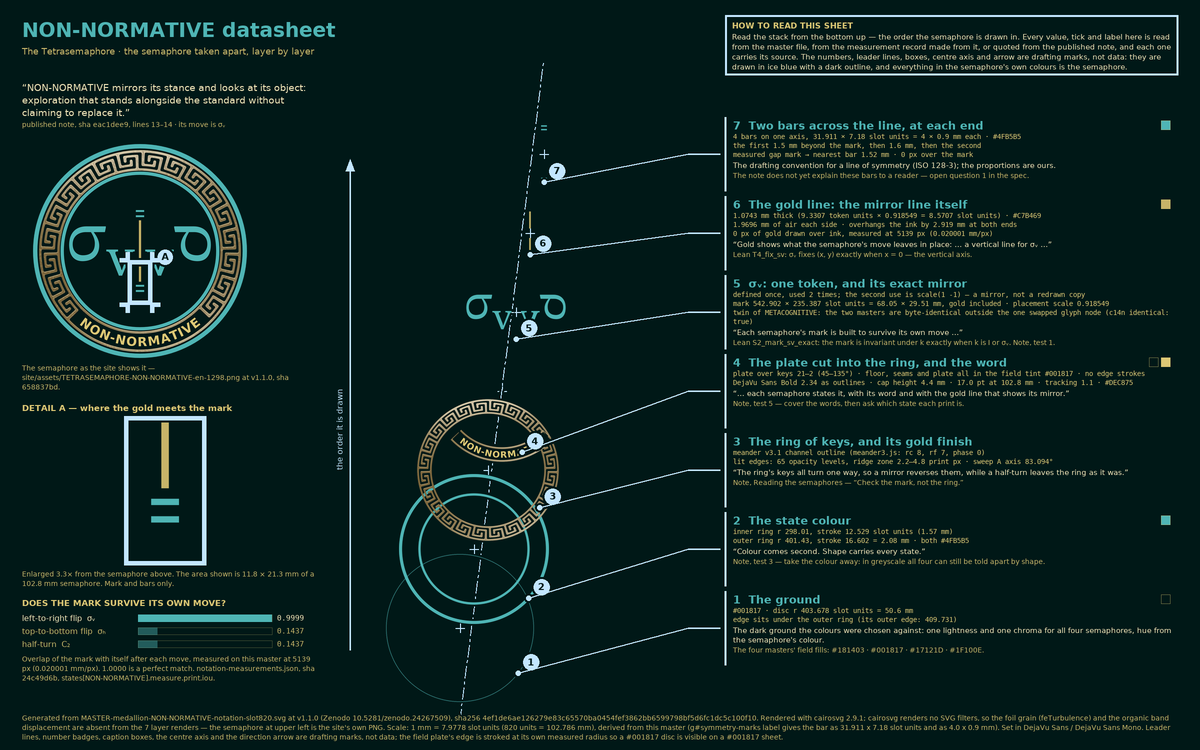
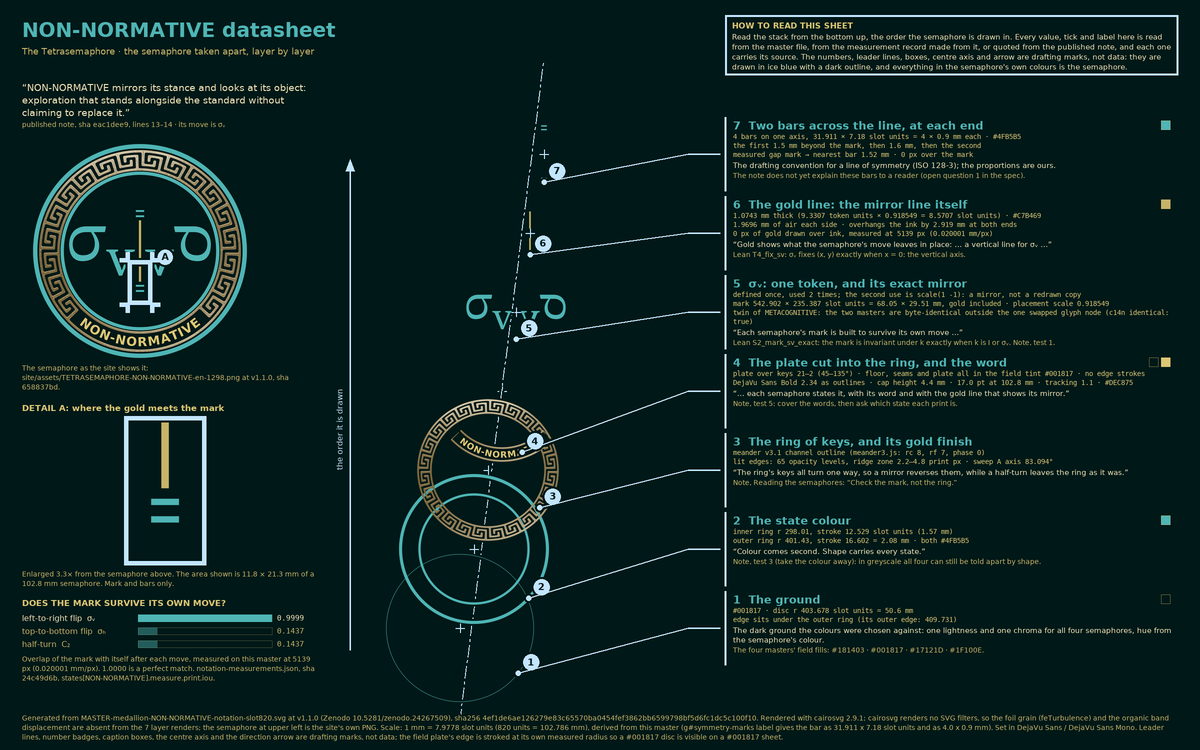
release: no em dash in the datasheets' own words, and a build check that keeps it so
Carey's rule, restated and approved on 17 November 2026: our own reader-facing
words carry no em dash, and a machine check enforces it so that no lane has to
remember. Quotations and titles of other people's work, anything already
published under a DOI, and files a reader never sees are left alone.

The four release sheets carried em dashes in the plate's own wording: four on
NORMATIVE and six on each of the others, from 15 lines of the plate template.
Each is replaced with a colon, comma, semicolon, full stop or parentheses, and
the five in the audit report's own prose likewise. No quotation changed.

The build now stops if any string drawn on a plate, any string in an audit
record, or the audit report contains an em dash. Tested both ways: with one dash
put back the plate build fails naming the string, and the clean template passes.

The four sheets, their previews, the four audit records and the audit report are
rebuilt and installed: 116 strings provenance-checked with no faults, 29
quotation spans with no punctuation faults, no text overlaps, nothing outside
the canvas, no em dash in any record or in the report.

The 1.1.0 change log entry loses the two em dashes in its body. Its heading
keeps the form of the 1.0.0 heading, which is published.

Prepared and committed by the Claude Science lane on Carey James Balboa's
instruction. Unsigned because gpg is unavailable in that lane. Not tagged: Carey
[…]

diff --git a/tools/make_anatomy_plate.py b/tools/make_anatomy_plate.py
@@ -300,6 +300,8 @@ class Text:
     def draw(self, xy, s, path, size, fill, tag='', anchor='la'):
         if not s:
             return 0
+        if '\u2014' in s:      # house rule: no em dash in the sheet's own words
+            raise AssertionError(f"em dash in drawn text: {s[:90]!r}")
         f = self.font(path, size)
         self.d.text(xy, s, font=f, fill=fill, anchor=anchor)
         self.boxes.append((tag, s, self.d.textbbox(xy, s, font=f, anchor=anchor)))
@@ -445,9 +447,9 @@ FIX_THM = {'NORMATIVE': 'T4_fix_I', 'NON-NORMATIVE': 'T4_fix_sv',
 MARK_THM = {'NON-NORMATIVE': 'S2_mark_sv_exact', 'METACOGNITIVE': 'S2_mark_sh_exact',
             'CRITICAL': 'S2_mark_C2_exact', 'NORMATIVE': 'S2_markAll_invariant'}
 FIX_SAYS = {'NORMATIVE': 'I fixes every point of the plane',
-            'NON-NORMATIVE': '\u03c3\u1d65 fixes (x, y) exactly when x = 0 \u2014 the vertical axis',
-            'METACOGNITIVE': '\u03c3\u2095 fixes (x, y) exactly when y = 0 \u2014 the horizontal axis',
-            'CRITICAL': 'C\u2082 fixes (x, y) exactly when x = 0 and y = 0 \u2014 the centre alone'}
+            'NON-NORMATIVE': '\u03c3\u1d65 fixes (x, y) exactly when x = 0: the vertical axis',
+            'METACOGNITIVE': '\u03c3\u2095 fixes (x, y) exactly when y = 0: the horizontal axis',
+            'CRITICAL': 'C\u2082 fixes (x, y) exactly when x = 0 and y = 0: the centre alone'}
 MARK_SAYS = {'NON-NORMATIVE': 'the mark is invariant under k exactly when k is I or \u03c3\u1d65',
              'METACOGNITIVE': 'the mark is invariant under k exactly when k is I or \u03c3\u2095',
              'CRITICAL': 'the mark is invariant under k exactly when k is I or C\u2082',
@@ -497,7 +499,7 @@ def build_stations(m, S):
         ],
         meaning=dict(text="\u201cColour comes second. Shape carries every state.\u201d",
                      src=S.q("Colour comes second. Shape carries every state.", "100")),
-        check=dict(text="Note, test 3 \u2014 take the colour away: in greyscale all four can "
+        check=dict(text="Note, test 3 (take the colour away): in greyscale all four can "
                         "still be told apart by shape.",
                    src=S.q("Take the colour away.", "122", kind='pointer, paraphrased'))))
 
@@ -515,7 +517,7 @@ def build_stations(m, S):
                           "while a half-turn leaves the ring as it was.\u201d",
                      src=S.q("The ring's keys all turn one way, so a mirror reverses them, while "
                              "a half-turn leaves the ring as it was.", "91")),
-        check=dict(text="Note, Reading the semaphores \u2014 \u201cCheck the mark, not the "
+        check=dict(text="Note, Reading the semaphores: \u201cCheck the mark, not the "
                         "ring.\u201d",
                    src=S.q("Check the mark, not the ring.", "91",
                            kind='pointer with verbatim quotation'))))
@@ -535,7 +537,7 @@ def build_stations(m, S):
                           "line that shows its mirror.\u201d",
                      src=S.q("each semaphore states it, with its word and with the gold line that "
                              "shows its mirror.", "188\u2013189")),
-        check=dict(text="Note, test 5 \u2014 cover the words, then ask which state each print is.",
+        check=dict(text="Note, test 5: cover the words, then ask which state each print is.",
                    src=S.q("Cover the words, then show them twenty prints", "129",
                            kind='pointer, paraphrased'))))
 
@@ -549,13 +551,13 @@ def build_stations(m, S):
         anchor5 = (410, 560)
     elif m.state == 'CRITICAL':
         v1 = dict(text=f"defined once, used {eg['uses']} times; {eg['rotate_180']} of them "
-                       f"rotate(180) \u2014 a half-turn, not a redrawn copy",
+                       f"rotate(180): a half-turn, not a redrawn copy",
                   src=S.j(f"states[{m.state}].exactness_grep"))
         title5 = f"{nota}: one token, and its half-turn"
         anchor5 = (300, 480)
     else:
-        v1 = dict(text=f"defined once, used {eg['uses']} times; the second use is scale(1 -1) "
-                       f"\u2014 a mirror, not a redrawn copy",
+        v1 = dict(text=f"defined once, used {eg['uses']} times; the second use is scale(1 -1): "
+                       f"a mirror, not a redrawn copy",
                   src=S.j(f"states[{m.state}].exactness_grep"))
         title5 = f"{nota}: one token, and its exact mirror"
         anchor5 = (330, 560) if m.state == 'METACOGNITIVE' else (410, 560)
@@ -604,7 +606,7 @@ def build_stations(m, S):
                 dict(text=f"radius {m.fix['r']:g} token units \u00d7 {s:g} = {r_slot:.3f} slot "
                           f"units = {m.mm(r_slot, 3):g} mm \u00b7 {m.fix['fill']}",
                      src=S.m("g#glyph-placement/circle#glyph-fix/@r,@fill; @transform")),
-                dict(text=f"centred on ({anchor6[0]:g}, {anchor6[1]:g}) \u2014 the centre of the "
+                dict(text=f"centred on ({anchor6[0]:g}, {anchor6[1]:g}), the centre of the "
                           f"slot, where the two triangles meet",
                      src=S.m("g#glyph-placement/circle#glyph-fix/@cx,@cy; @transform")),
             ]
@@ -651,8 +653,8 @@ def build_stations(m, S):
             meaning=dict(text="The drafting convention for a line of symmetry (ISO 128-3); the "
                               "proportions are ours.",
                          src=S.m("g#symmetry-marks/@inkscape:label"), kind='close paraphrase'),
-            check=dict(text="The note does not yet explain these bars to a reader \u2014 open "
-                            "question 1 in the spec.",
+            check=dict(text="The note does not yet explain these bars to a reader (open "
+                            "question 1 in the spec).",
                        src=S.m("g#symmetry-marks/@inkscape:label"))))
 
     for i, c in enumerate(st, start=1):
@@ -710,7 +712,7 @@ def compose(state, outdir='.'):
     yy = T.para((BOX_X0 + 14, 42), "HOW TO READ THIS SHEET", F_BOLD, 16, GOLD,
                 BOX_X1 - BOX_X0 - 28, 21, 'howto')
     T.para((BOX_X0 + 14, yy + 2),
-           "Read the stack from the bottom up \u2014 the order the semaphore is drawn in. Every "
+           "Read the stack from the bottom up, the order the semaphore is drawn in. Every "
            "value, tick and label here is read from the master file, from the measurement record "
            "made from it, or quoted from the published note, and each one carries its source. The "
            "numbers, leader lines, boxes, centre axis and arrow are drafting marks, not data: "
@@ -734,7 +736,7 @@ def compose(state, outdir='.'):
     img.paste(coin, coin_xy, coin)
     ck = coin_px / 820.0
     T.para((LEFT_X0, coin_xy[1] + coin_px + 12),
-           f"The semaphore as the site shows it — site/assets/TETRASEMAPHORE-{state}-en-1298"
+           f"The semaphore as the site shows it: site/assets/TETRASEMAPHORE-{state}-en-1298"
            f".png at {RELEASE['tag']}, sha {sha(site, 8)}.",
            F_SANS, 14, GOLD2, LEFT_X1 - LEFT_X0, 19, 'coin-cap')
 
@@ -773,7 +775,7 @@ def compose(state, outdir='.'):
     img.paste(crop, (cx0, cy0), crop)
     DR.rect([cx0, cy0, cx0 + crop.width, cy0 + crop.height], Draft.W_FRAME)
     det_mag = (crop.width / wu) / ck
-    T.draw((LEFT_X0, det_y0 - 26), "DETAIL A \u2014 where the gold meets the mark", F_BOLD, 17,
+    T.draw((LEFT_X0, det_y0 - 26), "DETAIL A: where the gold meets the mark", F_BOLD, 17,
            GOLD, 'detail-title')
     T.para((LEFT_X0, det_box[3] + 10),
            f"Enlarged {det_mag:.1f}\u00d7 from the semaphore above. The area shown is "
@@ -902,7 +904,7 @@ def compose(state, outdir='.'):
         f"{citation_clause()}sha256 {m.sha256}. "
         f"Rendered with cairosvg {cairosvg.__version__}; cairosvg renders no SVG filters, so the "
         f"foil grain (feTurbulence) and the organic band displacement are absent from the "
-        f"{len(ST)} layer renders \u2014 the semaphore at upper left is the site's own PNG. "
+        f"{len(ST)} layer renders; the semaphore at upper left is the site's own PNG. "
         f"Scale: 1 mm = {m.u_per_mm:.4f} slot units (820 units = {m.print_mm:.3f} mm), derived "
         f"from this master ({m.scale_note}). Set in DejaVu Sans / DejaVu Sans Mono. Leader lines, "
         f"number badges, caption boxes, the centre axis and the direction arrow are drafting "
@@ -910,7 +912,7 @@ def compose(state, outdir='.'):
         f"{GROUND} disc is visible on a {GROUND} sheet. "
         + (""   # a sheet is a release file when it carries its release citation, and not before
            if RELEASE['doi'] else
-           f"MOCK-UP for review, {build_time().date().isoformat()} (UTC) \u2014 not a release file."))
+           f"MOCK-UP for review, {build_time().date().isoformat()} (UTC). Not a release file."))
     T.para((M, 1428), foot, F_SANS, 14, GOLD2, W - 2 * M, 19, 'footer')
 
     # ---- the drafting marks go on last, over everything they describe
@@ -1155,6 +1157,9 @@ def compose(state, outdir='.'):
                    contrast_floor=CONTRAST_FLOOR,
                    contrast_faults=contrast_faults),
     )
+    _dashed = json.dumps(payload, ensure_ascii=False).count('\u2014')
+    if _dashed:                 # house rule: no em dash in the record's own words
+        raise AssertionError(f"{_dashed} em dash(es) in the audit record for {state}")
     with open(os.path.join(outdir, f"audit_{state}.json"), 'w') as f:
         json.dump(payload, f, indent=1, ensure_ascii=False)
     return p_full, payload, report

diff --git a/tools/make_audit_report.py b/tools/make_audit_report.py
@@ -51,7 +51,7 @@ for st in STATES:
 L.append(f"| **all four** | **{sum(D[s]['stations'] for s in STATES)}** | **{tot['q']}** | "
          f"**{tot['p']}** | **{tot['l']}** | **{tot['s']}** | **{tot['f']}** | "
          f"**{tot['qs']}** | **{tot['qf']}** | **{tot['o']}** | **{tot['x']}** |")
-L += ["", "Every cited string \u2014 quotation and pointer alike \u2014 is looked up in the "
+L += ["", "Every cited string, quotation and pointer alike, is looked up in the "
           "published note before anything is drawn, and a Lean name is looked up as a `theorem` "
           "or `lemma` declaration in the published proof file. The two columns separate how the "
           "sheet *presents* a cited string: a **quotation** reproduces the note's own words; a "
@@ -63,7 +63,7 @@ L += ["", "Every cited string \u2014 quotation and pointer alike \u2014 is looke
       "against the note: a span ending in punctuation claims the note carries that mark at that "
       "point, and a span ending in an ellipsis claims nothing. `test_quotation_punctuation.py` "
       "runs the check over the three faults found in review, their three corrected forms, the one "
-      "full stop the note does have, and three invented cases \u2014 ten cases, all as intended \u2014 "
+      "full stop the note does have, and three invented cases (ten cases, all as intended), "
       "so a zero here is informative rather than vacuous.", ""]
 
 L += ["## Every quotation, by sheet", "",
@@ -134,7 +134,7 @@ L += ["", f"The worst of the seven views is **{G.get('worst_view')}** at \u0394E
           f"`choose_drafting_colour.py` places it {G.get('search_rank')} of "
           f"{G.get('search_qualifying')} candidates clearing 7:1 on all four grounds, with "
           f"`{G.get('search_first')}` first at \u0394E2000 {_fd}"
-          + (f" \u2014 {round(_fd - _wd, 2)} \u0394E2000 units apart in the worst view"
+          + (f", {round(_fd - _wd, 2)} \u0394E2000 units apart in the worst view"
              if (_wd is not None and _fd is not None) else "")
           + ". The sheets carry Carey's choice.", ""]
 L += ["", "Line weights, px at 2400 px wide (halo adds "
@@ -190,9 +190,9 @@ L += ["", f"**The centre axis.** Where the axis passes behind a part it now stop
           f"finished image, the nearest axis pixel sits "
           + " \u00b7 ".join(f"{st} {D[st]['drafting']['covered']['axis_min_gap_to_art_px']}"
                             for st in STATES)
-          + f" px from the nearest art pixel, against the {_axc} px setting \u2014 a wrong radius "
+          + f" px from the nearest art pixel, against the {_axc} px setting; a wrong radius "
           f"would read here as a different gap. The last column counts every "
-          f"pixel where art was painted and a drafting halo now covers it \u2014 "
+          f"pixel where art was painted and a drafting halo now covers it: "
           f"{min(_halo_rng)} to {max(_halo_rng)} px per sheet, all of it from the number badges, "
           f"leader lines and detail window, none of it from the axis.", ""]
 L += ["", "## Contrast of every text colour against each sheet's ground", "",
@@ -210,6 +210,8 @@ L += ["", f"Sixteen colour-on-ground pairs, measured: {lo[0]:.2f}:1 ({lo[1]} {lo
           f"{hi[0]:.2f}:1 ({hi[1]} {hi[2]}). All sit above the 4.5:1 floor for body text. "
           f"The least headroom is {lo[1]}'s state colour at {lo[0]:.2f}:1; the other three state "
           f"colours sit at {min(others):.2f}\u2013{max(others):.2f}:1.", ""]
+if '\u2014' in '\n'.join(L):     # house rule: no em dash in the report's own words
+    raise AssertionError('em dash in AUDIT_REPORT.md: ' + next(x for x in L if '\u2014' in x)[:100])
 open('AUDIT_REPORT.md', 'w').write('\n'.join(L) + '\n')
 print('\n'.join(L[:24]))
 print('...')

diff --git a/docs/AUDIT_REPORT.md b/docs/AUDIT_REPORT.md
@@ -1,6 +1,6 @@
 # Datasheet audit report
 
-Four sheets, one template. Generated 2026-11-16 (UTC).
+Four sheets, one template. Generated 2026-11-17 (UTC).
 
 Sources, all read from the published tree at `v1.1.0` (Zenodo 10.5281/zenodo.24267509):
 
@@ -19,9 +19,9 @@ Sources, all read from the published tree at `v1.1.0` (Zenodo 10.5281/zenodo.242
 | CRITICAL | 6 | 7 | 3 | 2 | 27 | 0 | 8 | 0 | 0 | 0 |
 | **all four** | **26** | **25** | **12** | **7** | **116** | **0** | **29** | **0** | **0** | **0** |
 
-Every cited string — quotation and pointer alike — is looked up in the published note before anything is drawn, and a Lean name is looked up as a `theorem` or `lemma` declaration in the published proof file. The two columns separate how the sheet *presents* a cited string: a **quotation** reproduces the note's own words; a **pointer** names a test or a section in wording of ours, with the test's title or sentence verified verbatim behind it. The provenance check tests, in both directions, that each string's field names a place that can exist in the file its source names.
+Every cited string, quotation and pointer alike, is looked up in the published note before anything is drawn, and a Lean name is looked up as a `theorem` or `lemma` declaration in the published proof file. The two columns separate how the sheet *presents* a cited string: a **quotation** reproduces the note's own words; a **pointer** names a test or a section in wording of ours, with the test's title or sentence verified verbatim behind it. The provenance check tests, in both directions, that each string's field names a place that can exist in the file its source names.
 
-**Quotation punctuation.** Every span a sheet wraps in typographic quotes is tested against the note: a span ending in punctuation claims the note carries that mark at that point, and a span ending in an ellipsis claims nothing. `test_quotation_punctuation.py` runs the check over the three faults found in review, their three corrected forms, the one full stop the note does have, and three invented cases — ten cases, all as intended — so a zero here is informative rather than vacuous.
+**Quotation punctuation.** Every span a sheet wraps in typographic quotes is tested against the note: a span ending in punctuation claims the note carries that mark at that point, and a span ending in an ellipsis claims nothing. `test_quotation_punctuation.py` runs the check over the three faults found in review, their three corrected forms, the one full stop the note does have, and three invented cases (ten cases, all as intended), so a zero here is informative rather than vacuous.
 
 ## Every quotation, by sheet
 
@@ -33,11 +33,11 @@ Line numbers are in the published note, sha256 `eac1dee95aa6a61b`.
 |---|---|---|---|
 | standfirst | “NORMATIVE keeps its stance and looks at its object: what has been tested and holds, for now.” | 12–13 | quote |
 | 2 rings | “Colour comes second. Shape carries every state.” | 100 | quote |
-| 2 rings | Note, test 3 — take the colour away: in greyscale all four can still be told apart by shape. | 122 | pointer, paraphrased |
+| 2 rings | Note, test 3 (take the colour away): in greyscale all four can still be told apart by shape. | 122 | pointer, paraphrased |
 | 3 meander | “The ring's keys all turn one way, so a mirror reverses them, while a half-turn leaves the ring as it was.” | 91 | quote |
-| 3 meander | Note, Reading the semaphores — “Check the mark, not the ring.” | 91 | pointer with verbatim quotation |
+| 3 meander | Note, Reading the semaphores: “Check the mark, not the ring.” | 91 | pointer with verbatim quotation |
 | 4 legend | “… each semaphore states it, with its word and with the gold line that shows its mirror.” | 188–189 | quote |
-| 4 legend | Note, test 5 — cover the words, then ask which state each print is. | 129 | pointer, paraphrased |
+| 4 legend | Note, test 5: cover the words, then ask which state each print is. | 129 | pointer, paraphrased |
 | 5 mark | “Each semaphore's mark is built to survive its own move …” | 22–23 | quote |
 | absent note | “… the whole figure for I …” | 95 | quote |
 
@@ -49,11 +49,11 @@ Master: `MASTER-medallion-NORMATIVE-notation-slot820.svg`, sha256 `e0b6366d5c032
 |---|---|---|---|
 | standfirst | “NON-NORMATIVE mirrors its stance and looks at its object: exploration that stands alongside the standard without claiming to replace it.” | 13–14 | quote |
 | 2 rings | “Colour comes second. Shape carries every state.” | 100 | quote |
-| 2 rings | Note, test 3 — take the colour away: in greyscale all four can still be told apart by shape. | 122 | pointer, paraphrased |
+| 2 rings | Note, test 3 (take the colour away): in greyscale all four can still be told apart by shape. | 122 | pointer, paraphrased |
 | 3 meander | “The ring's keys all turn one way, so a mirror reverses them, while a half-turn leaves the ring as it was.” | 91 | quote |
-| 3 meander | Note, Reading the semaphores — “Check the mark, not the ring.” | 91 | pointer with verbatim quotation |
+| 3 meander | Note, Reading the semaphores: “Check the mark, not the ring.” | 91 | pointer with verbatim quotation |
 | 4 legend | “… each semaphore states it, with its word and with the gold line that shows its mirror.” | 188–189 | quote |
-| 4 legend | Note, test 5 — cover the words, then ask which state each print is. | 129 | pointer, paraphrased |
+| 4 legend | Note, test 5: cover the words, then ask which state each print is. | 129 | pointer, paraphrased |
 | 5 mark | “Each semaphore's mark is built to survive its own move …” | 22–23 | quote |
 | 6 fix | “Gold shows what the semaphore's move leaves in place: … a vertical line for σᵥ …” | 95–96 | quote |
 
@@ -65,11 +65,11 @@ Master: `MASTER-medallion-NON-NORMATIVE-notation-slot820.svg`, sha256 `4ef1de6ae
 |---|---|---|---|
 | standfirst | “METACOGNITIVE keeps its stance but turns its look back to its own frame. …” | 14–16 | quote |
 | 2 rings | “Colour comes second. Shape carries every state.” | 100 | quote |
-| 2 rings | Note, test 3 — take the colour away: in greyscale all four can still be told apart by shape. | 122 | pointer, paraphrased |
+| 2 rings | Note, test 3 (take the colour away): in greyscale all four can still be told apart by shape. | 122 | pointer, paraphrased |
 | 3 meander | “The ring's keys all turn one way, so a mirror reverses them, while a half-turn leaves the ring as it was.” | 91 | quote |
-| 3 meander | Note, Reading the semaphores — “Check the mark, not the ring.” | 91 | pointer with verbatim quotation |
+| 3 meander | Note, Reading the semaphores: “Check the mark, not the ring.” | 91 | pointer with verbatim quotation |
 | 4 legend | “… each semaphore states it, with its word and with the gold line that shows its mirror.” | 188–189 | quote |
-| 4 legend | Note, test 5 — cover the words, then ask which state each print is. | 129 | pointer, paraphrased |
+| 4 legend | Note, test 5: cover the words, then ask which state each print is. | 129 | pointer, paraphrased |
 | 5 mark | “Each semaphore's mark is built to survive its own move …” | 22–23 | quote |
 | 6 fix | “Gold shows what the semaphore's move leaves in place: … a horizontal line for σₕ …” | 95–96 | quote |
 
@@ -81,11 +81,11 @@ Master: `MASTER-medallion-METACOGNITIVE-notation-slot820.svg`, sha256 `cccfcff10
 |---|---|---|---|
 | standfirst | “CRITICAL does both at once: it turns over the framework a claim rests on, treating every baseline assumption as possibly wrong.” | 16–17 | quote |
 | 2 rings | “Colour comes second. Shape carries every state.” | 100 | quote |
-| 2 rings | Note, test 3 — take the colour away: in greyscale all four can still be told apart by shape. | 122 | pointer, paraphrased |
+| 2 rings | Note, test 3 (take the colour away): in greyscale all four can still be told apart by shape. | 122 | pointer, paraphrased |
 | 3 meander | “The ring's keys all turn one way, so a mirror reverses them, while a half-turn leaves the ring as it was.” | 91 | quote |
-| 3 meander | Note, Reading the semaphores — “Check the mark, not the ring.” | 91 | pointer with verbatim quotation |
+| 3 meander | Note, Reading the semaphores: “Check the mark, not the ring.” | 91 | pointer with verbatim quotation |
 | 4 legend | “… each semaphore states it, with its word and with the gold line that shows its mirror.” | 188–189 | quote |
-| 4 legend | Note, test 5 — cover the words, then ask which state each print is. | 129 | pointer, paraphrased |
+| 4 legend | Note, test 5: cover the words, then ask which state each print is. | 129 | pointer, paraphrased |
 | 5 mark | “Each semaphore's mark is built to survive its own move …” | 22–23 | quote |
 | 6 fix | “Gold shows what the semaphore's move leaves in place: … a single point for C₂.” | 95–96 | quote |
 | absent note | “… a single point for C₂.” | 95–96 | quote |
@@ -98,11 +98,11 @@ Master: `MASTER-medallion-CRITICAL-notation-slot820.svg`, sha256 `33413c4af9ec83
 |---|---|---|
 | NORMATIVE | `S2_markAll_invariant` | Lean S2_markAll_invariant: the I mark is invariant under every move. Note, test 1. |
 | NON-NORMATIVE | `S2_mark_sv_exact` | Lean S2_mark_sv_exact: the mark is invariant under k exactly when k is I or σᵥ. Note, test 1. |
-| NON-NORMATIVE | `T4_fix_sv` | Lean T4_fix_sv: σᵥ fixes (x, y) exactly when x = 0 — the vertical axis. |
+| NON-NORMATIVE | `T4_fix_sv` | Lean T4_fix_sv: σᵥ fixes (x, y) exactly when x = 0: the vertical axis. |
 | METACOGNITIVE | `S2_mark_sh_exact` | Lean S2_mark_sh_exact: the mark is invariant under k exactly when k is I or σₕ. Note, test 1. |
-| METACOGNITIVE | `T4_fix_sh` | Lean T4_fix_sh: σₕ fixes (x, y) exactly when y = 0 — the horizontal axis. |
+| METACOGNITIVE | `T4_fix_sh` | Lean T4_fix_sh: σₕ fixes (x, y) exactly when y = 0: the horizontal axis. |
 | CRITICAL | `S2_mark_C2_exact` | Lean S2_mark_C2_exact: the mark is invariant under k exactly when k is I or C₂. Note, test 1. |
-| CRITICAL | `T4_fix_C2` | Lean T4_fix_C2: C₂ fixes (x, y) exactly when x = 0 and y = 0 — the centre alone. |
+| CRITICAL | `T4_fix_C2` | Lean T4_fix_C2: C₂ fixes (x, y) exactly when x = 0 and y = 0: the centre alone. |
 
 ## The drafting style
 
@@ -151,7 +151,7 @@ The green used in version 4 turned pale gold under simulated dichromacy, close t
 | Vienot deuteranopia | `#4FB5B5` | 16.3 |
 | Vienot tritanopia | `#4FB5B5` | 17.39 |
 
-The worst of the seven views is **Machado protanopia** at ΔE2000 15.33. Carey chose this colour from a preview on 23 October 2026. The search in `choose_drafting_colour.py` places it 20 of 8486 candidates clearing 7:1 on all four grounds, with `#CFF2FF` first at ΔE2000 16.31 — 0.98 ΔE2000 units apart in the worst view. The sheets carry Carey's choice.
+The worst of the seven views is **Machado protanopia** at ΔE2000 15.33. Carey chose this colour from a preview on 23 October 2026. The search in `choose_drafting_colour.py` places it 20 of 8486 candidates clearing 7:1 on all four grounds, with `#CFF2FF` first at ΔE2000 16.31, 0.98 ΔE2000 units apart in the worst view. The sheets carry Carey's choice.
 
 
 Line weights, px at 2400 px wide (halo adds 4 px each side):
@@ -177,7 +177,7 @@ Line weights, px at 2400 px wide (halo adds 4 px each side):
 The art-line figures are measured on the reference semaphore at 428 px, the scale the detail window is drawn at. Comparison, computed from the rows above rather than asserted: the 9 px core is heavier than the median art line on 4 of the 4 sheets (widest median 8.0 px, CRITICAL); the 17 px assembly, core plus halo both sides, is heavier than the thickest single art stroke on 4 of the 4 (thickest 12.65 px, CRITICAL). The marks-over-art columns are the worst case where a mark crosses the lightest gold and cream: the ground halo carries the separation there, at the ground contrast above.
 
 
-**The centre axis.** Where the axis passes behind a part it now stops 3 px short of it, at 2400 px wide: the axis is drawn to its own layer, and that layer is cleared wherever the art beneath it, dilated by 3 px, is present. The gap the clearance leaves is ground, so the separation a halo would give is there without a halo being painted over the artwork. The count of axis pixels over art is 0 on the four sheets, which is what the clearing step forces rather than an independent test of it: the same mask does the clearing and the counting, so the intersection is empty whether or not the radius is the intended one. The figure that can come out wrong is the distance. Measured on the finished image, the nearest axis pixel sits NORMATIVE 4.0 · NON-NORMATIVE 4.0 · METACOGNITIVE 4.0 · CRITICAL 4.0 px from the nearest art pixel, against the 3 px setting — a wrong radius would read here as a different gap. The last column counts every pixel where art was painted and a drafting halo now covers it — 1553 to 3189 px per sheet, all of it from the number badges, leader lines and detail window, none of it from the axis.
+**The centre axis.** Where the axis passes behind a part it now stops 3 px short of it, at 2400 px wide: the axis is drawn to its own layer, and that layer is cleared wherever the art beneath it, dilated by 3 px, is present. The gap the clearance leaves is ground, so the separation a halo would give is there without a halo being painted over the artwork. The count of axis pixels over art is 0 on the four sheets, which is what the clearing step forces rather than an independent test of it: the same mask does the clearing and the counting, so the intersection is empty whether or not the radius is the intended one. The figure that can come out wrong is the distance. Measured on the finished image, the nearest axis pixel sits NORMATIVE 4.0 · NON-NORMATIVE 4.0 · METACOGNITIVE 4.0 · CRITICAL 4.0 px from the nearest art pixel, against the 3 px setting; a wrong radius would read here as a different gap. The last column counts every pixel where art was painted and a drafting halo now covers it: 1553 to 3189 px per sheet, all of it from the number badges, leader lines and detail window, none of it from the axis.
 
 
 ## Contrast of every text colour against each sheet's ground

diff --git a/CHANGELOG.md b/CHANGELOG.md
@@ -4,9 +4,9 @@
 
 Version DOI `10.5281/zenodo.24267509` (concept DOI `10.5281/zenodo.23575814`, which always resolves to the latest version). Continues 1.0.0 (`10.5281/zenodo.23575816`), which stays published and citable.
 
-- **Three text lines (`README.md`, `site/index.html`, `site/note.html`):** Approved by Carey James Balboa on 6 November 2026 after an audit of how the deployed text routes a reader. Across the three deployed pages, 29 sentences put a body in motion and none claimed a benefit from the movement, so nothing was faddish; but the routes offered were body 29, paper and print 27, mind 3, and the only sentence naming the mind put it second. The body was not pushy, it was standing alone, which made it look required. The checks introduction now names running a check in your head first and says why the physical routes exist — imagination is easy to fool, and turning a real card over settles what picturing it only suggests. The sentence on how the four moves are learned no longer prescribes an order. The METACOGNITIVE sentence no longer ends "this is thinking about thinking", whose "this" could be read as making the posture itself the cognitive act; the meaning is now attached to the move, which is what the algebra defines.
+- **Three text lines (`README.md`, `site/index.html`, `site/note.html`):** Approved by Carey James Balboa on 6 November 2026 after an audit of how the deployed text routes a reader. Across the three deployed pages, 29 sentences put a body in motion and none claimed a benefit from the movement, so nothing was faddish; but the routes offered were body 29, paper and print 27, mind 3, and the only sentence naming the mind put it second. The body was not pushy, it was standing alone, which made it look required. The checks introduction now names running a check in your head first and says why the physical routes exist: imagination is easy to fool, and turning a real card over settles what picturing it only suggests. The sentence on how the four moves are learned no longer prescribes an order. The METACOGNITIVE sentence no longer ends "this is thinking about thinking", whose "this" could be read as making the posture itself the cognitive act; the meaning is now attached to the move, which is what the algebra defines.
 - **Datasheet toolchain (`tools/`, `docs/DATASHEET_SPEC.md`):** `build_datasheets.py`, `make_anatomy_plate.py`, `make_audit_report.py`, `measure_drafting.py`, `choose_drafting_colour.py` and `drafting_measurements.json`, with the pinned build environment in `tools/datasheets-environment/`. The driver stages its inputs from the release the sheets cite (`git show <tag>:<path>`), so a sheet provably quotes the note it names, and `--verify` proves a clean checkout regenerates the committed sheets byte for byte.
-- **Four datasheets, as release files (`site/assets/datasheet_*.png`, `docs/datasheet-audit/`, `docs/AUDIT_REPORT.md`):** One sheet per semaphore, 2400 × 1500 with a 1200 px preview, built to `docs/DATASHEET_SPEC.md`. Every cited string is looked up in the published note before anything is drawn and every Lean name in the published proof file: 116 strings provenance-checked with no faults, 29 quotation spans with no punctuation faults, no text overlaps and nothing outside the canvas. A sheet now identifies itself as a release file only when it carries a release DOI, and prints "MOCK-UP for review — not a release file" otherwise, so the claim cannot be made before it is true.
+- **Four datasheets, as release files (`site/assets/datasheet_*.png`, `docs/datasheet-audit/`, `docs/AUDIT_REPORT.md`):** One sheet per semaphore, 2400 × 1500 with a 1200 px preview, built to `docs/DATASHEET_SPEC.md`. Every cited string is looked up in the published note before anything is drawn and every Lean name in the published proof file: 116 strings provenance-checked with no faults, 29 quotation spans with no punctuation faults, no text overlaps and nothing outside the canvas. A sheet now identifies itself as a release file only when it carries a release DOI, and prints a mock-up line otherwise, so the claim cannot be made before it is true. The build stops if a sheet, an audit record or the audit report carries an em dash in its own words.
 - **Standfirst elision (`tools/make_anatomy_plate.py`):** The METACOGNITIVE sheet quotes the first sentence of its note entry and marks the elision, as `DATASHEET_SPEC.md` §2 requires. The gate is unchanged: the **unelided** sentence is what is looked up in the note, and the build still stops if it is absent; only what is drawn is short. The audit JSON records both, under `text` and `unelided`.
 
 ## [1.0.0] — 2026-10-22
